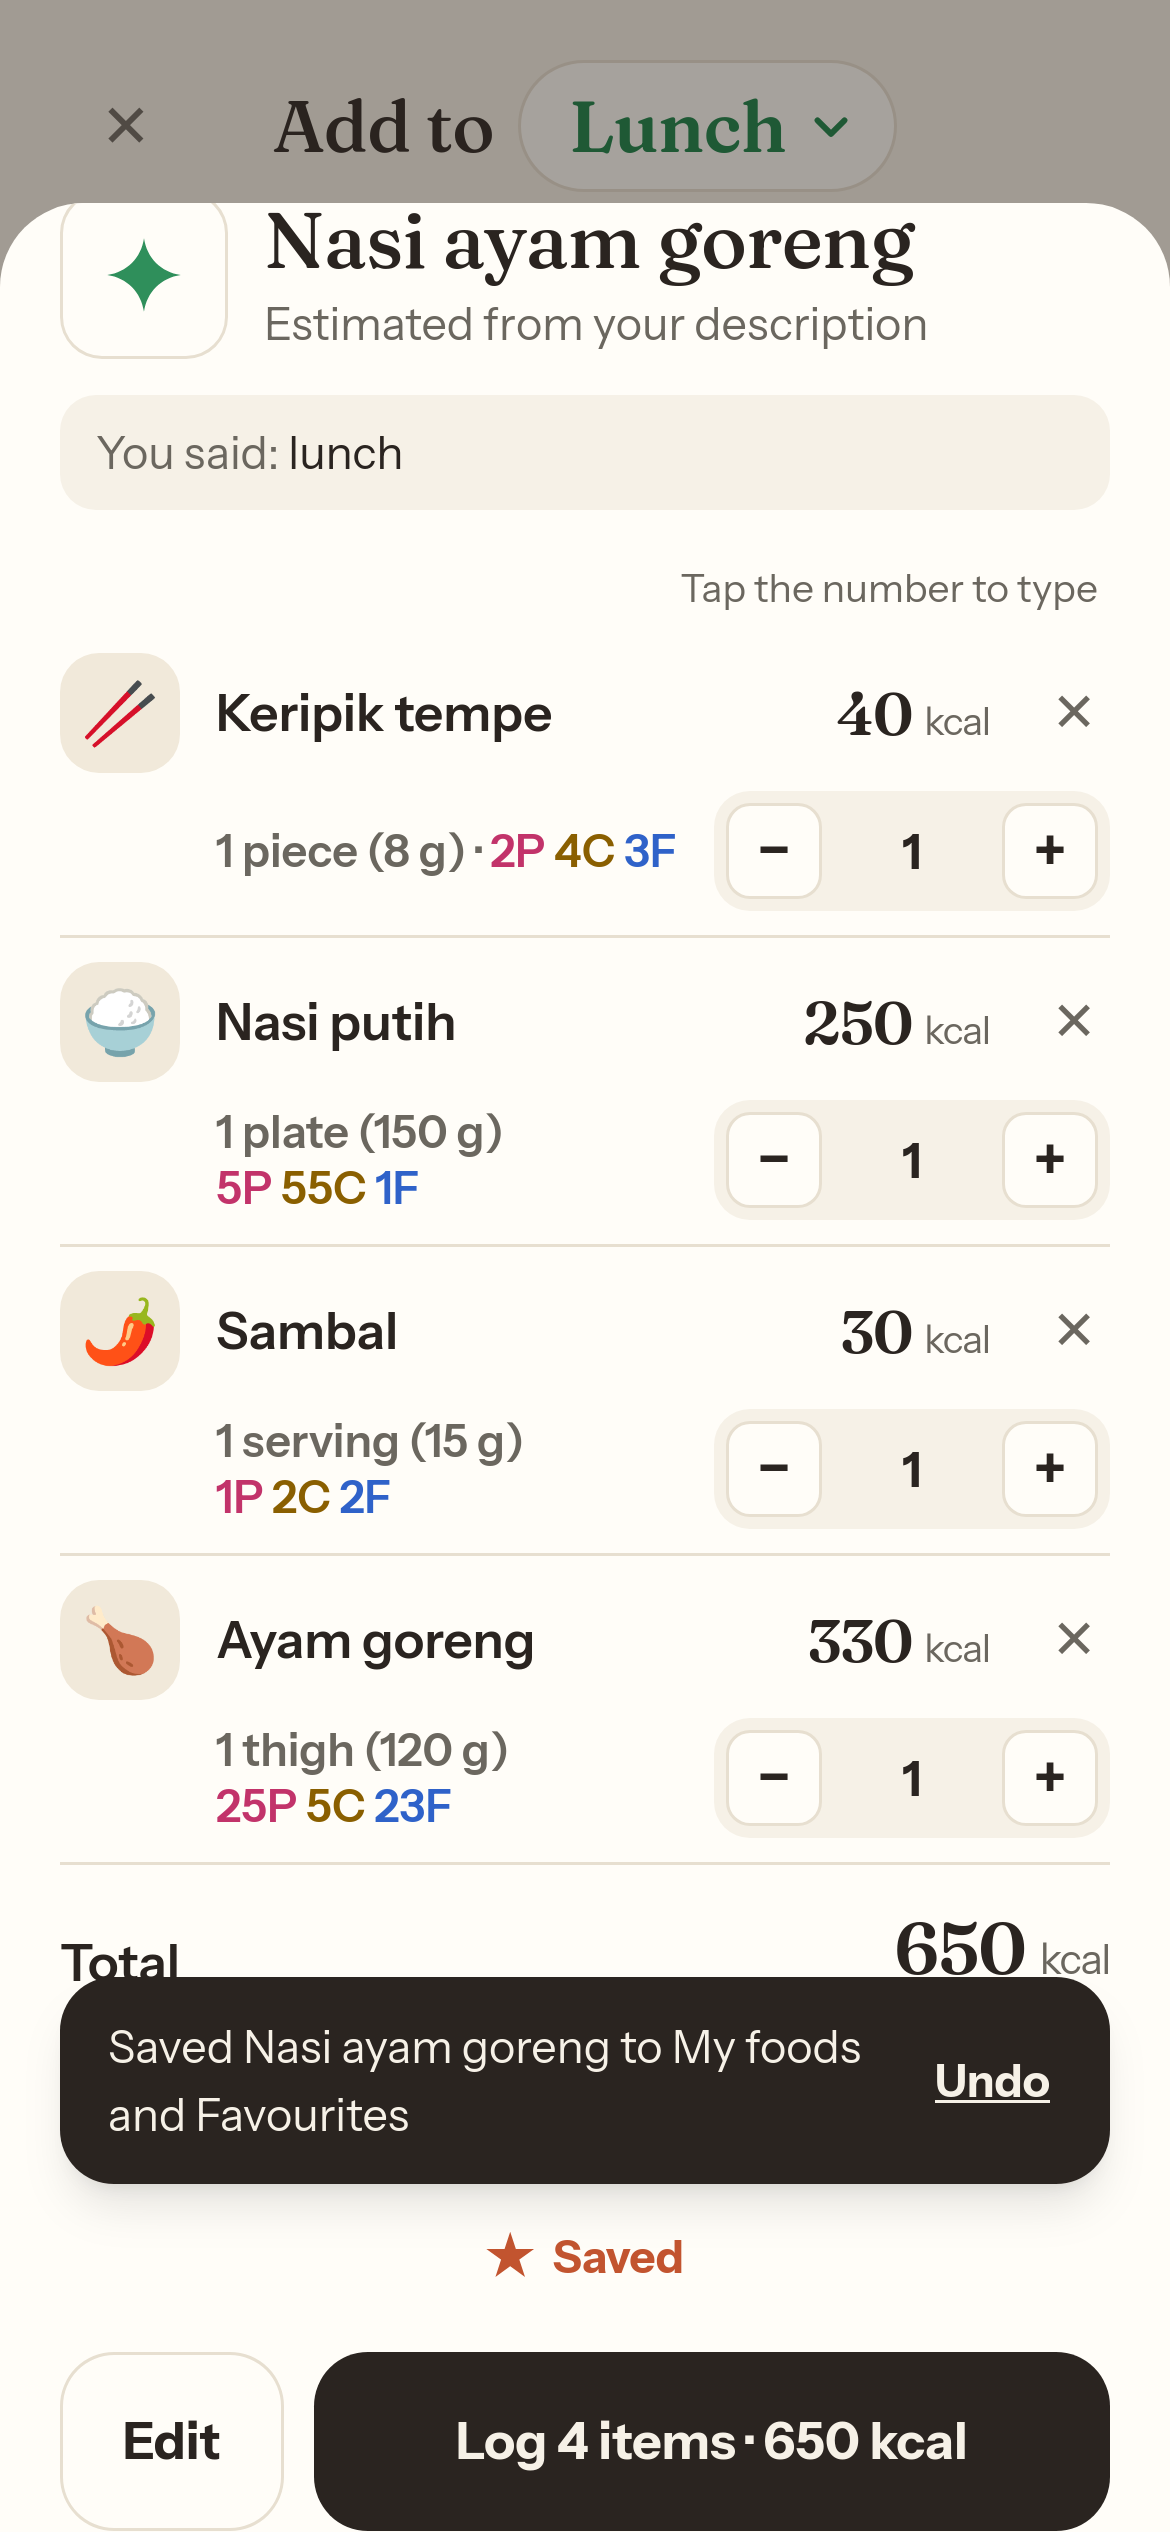
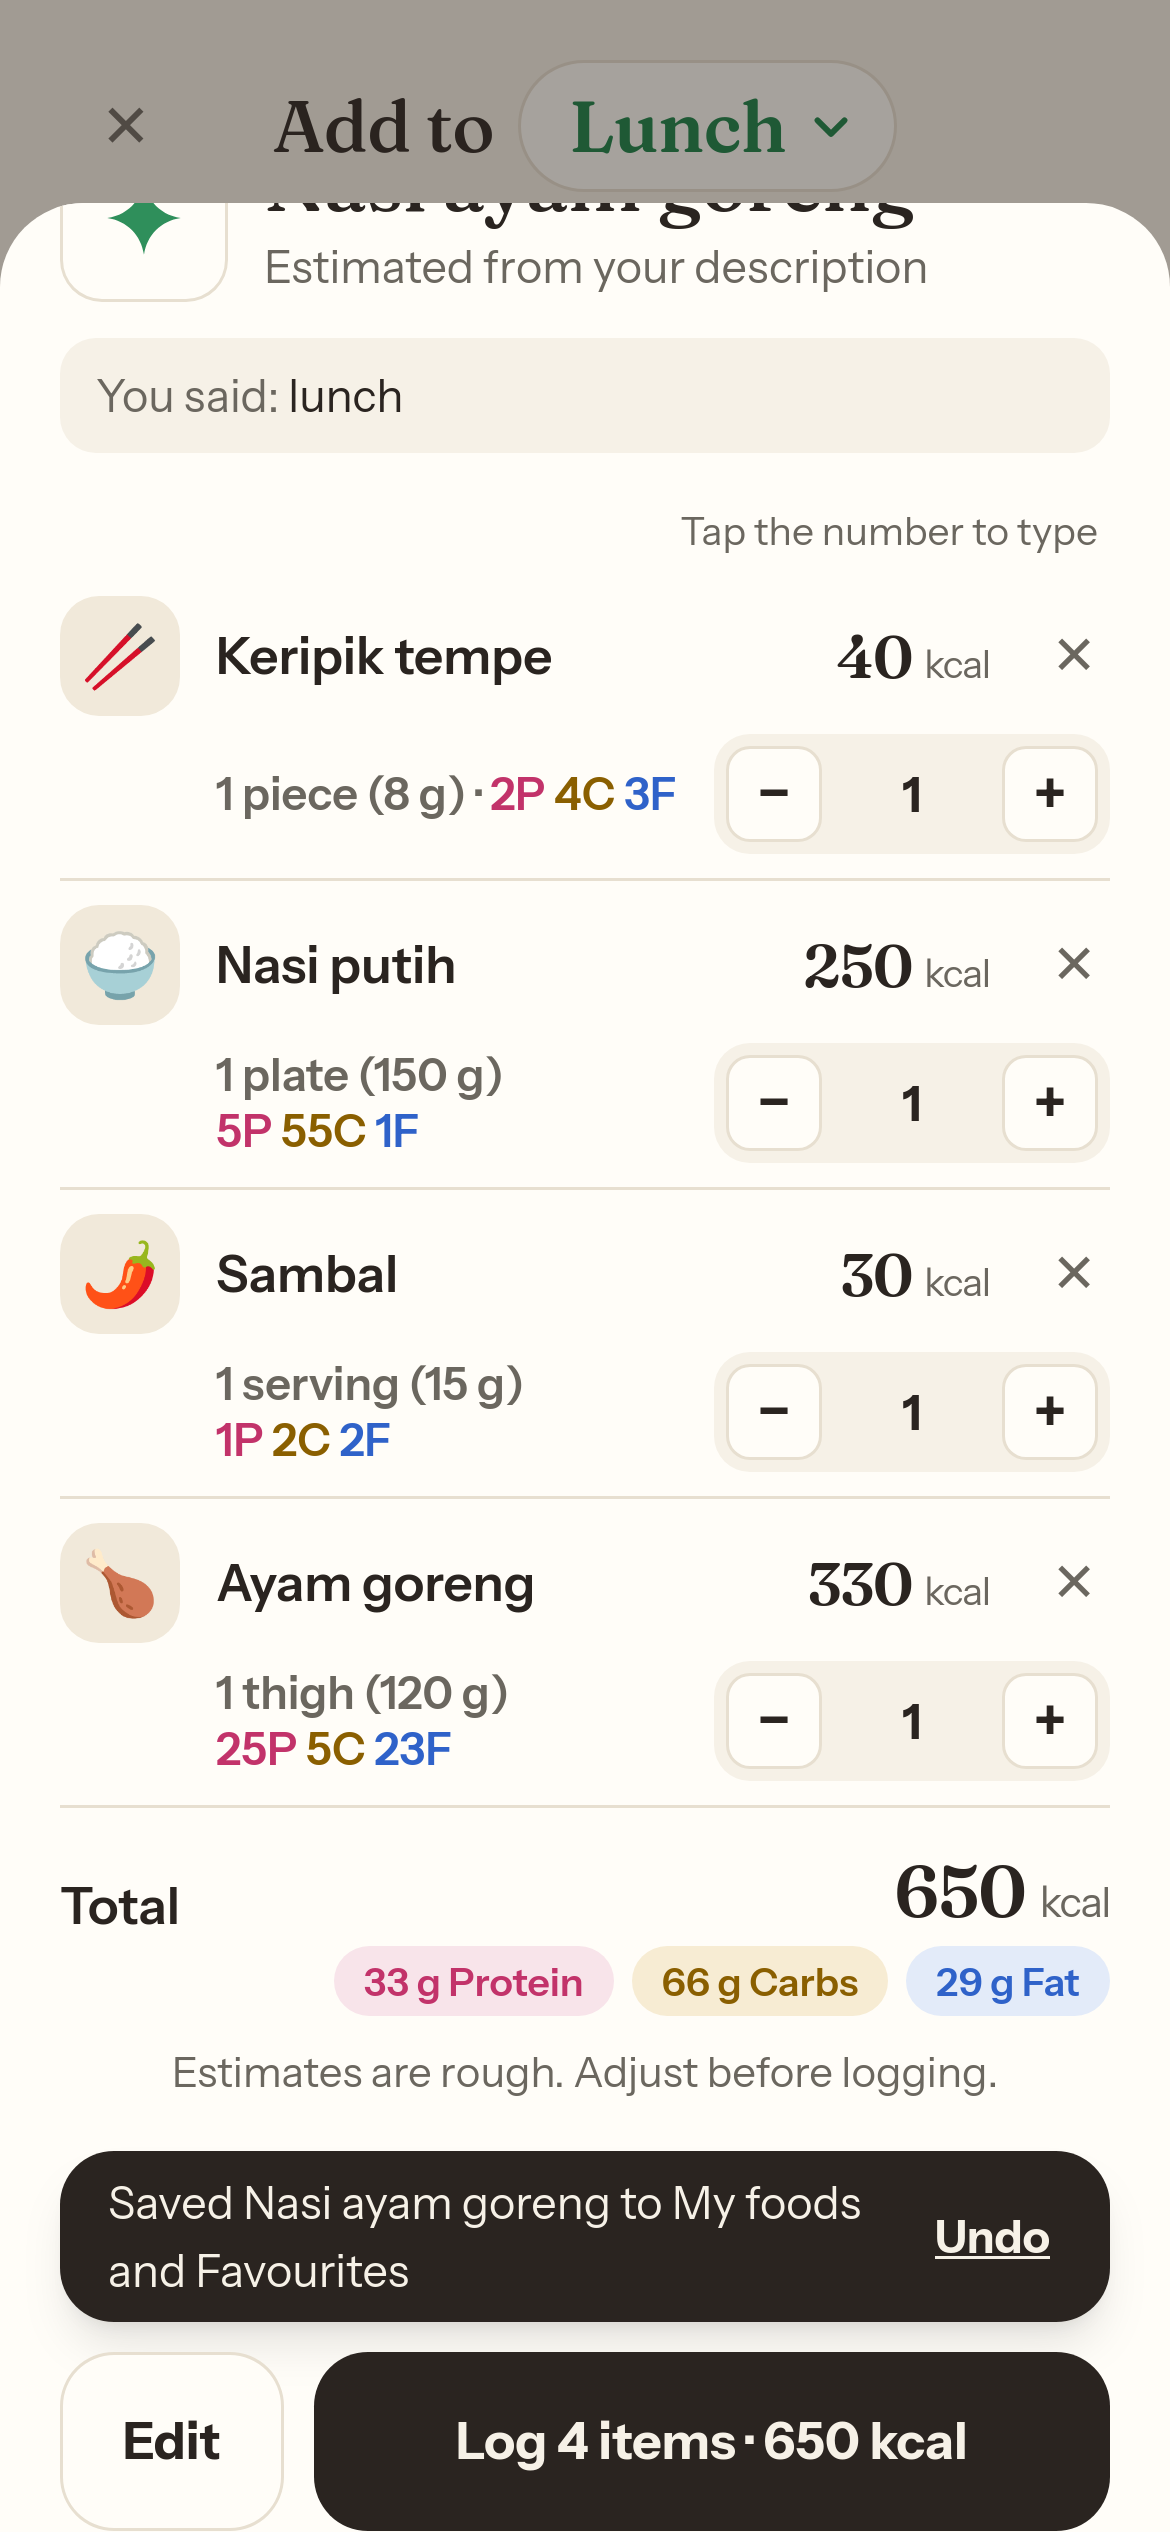
v1.22.1: key links open in the browser; save snackbar takes the row's slot
- Settings "get a key" links (Gemini "here", OpenAI "Get a key") leave the installed app:
  iOS 17+ home-screen app -> x-safari-https:// (Safari); Android installed app -> intent:// VIEW
  to the browser it runs in (Chrome / Samsung Internet / Edge / Firefox) with a browser_fallback_url;
  browser tabs, desktop and iOS 16 keep the plain https link, target=_blank.
- AI result / Meal Ideas sheet (Reed): the 4 s Undo snackbar replaces the save row in place instead of
  floating above it, so Total is never covered; the row returns as "★ Saved" (or "☆ Save to favourites"
  after Undo). Focus moves row -> Undo -> row. Copy, 44px targets and reduced motion unchanged.
- tests/v1221.mjs (link per platform, Settings otherwise unchanged); v122.mjs checks the slot and Total.

diff --git a/src/components/PhotoSheets.tsx b/src/components/PhotoSheets.tsx
@@ -315,7 +315,9 @@ export function Results({ dish, scaleRef, items, photo, note, source, onEdit, on
   // v1.22 (Reed's spec): "☆ Save to favourites" saves the whole result as ONE food in My foods and Favourites: the dish
   // name (a single item saves under its own name), the total at the servings set now. It is a snapshot: changing
   // servings brings the row back, and saving again updates the food this sheet saved (same name, no duplicate). A food
-  // of the same name that was already in My foods is only starred. Snackbar above the footer for 4 s with Undo.
+  // of the same name that was already in My foods is only starred. v1.22.1 (Reed): the 4 s snackbar with Undo takes the
+  // save row's slot (it no longer floats above it, so it can never cover Total); when it goes the row is back as
+  // "★ Saved", or "☆ Save to favourites" after Undo. Focus follows: row → Undo → row.
   const { saveFavourite } = useStore()
   const sig = JSON.stringify(rows.map((r) => [r.it.key, r.s]))
   const [saved, setSaved] = useState<string | null>(null)
@@ -323,21 +325,35 @@ export function Results({ dish, scaleRef, items, photo, note, source, onEdit, on
   const [snack, setSnack] = useState<{ key: number; text: string; undo: () => void } | null>(null)
   const snackTimer = useRef(0)
   const saveBtn = useRef<HTMLButtonElement>(null)
+  const undoBtn = useRef<HTMLButtonElement>(null)
+  // Focus moves with the slot: the save row → Undo when the snackbar replaces it, Undo → the row when it goes.
+  const focusNext = useRef<'undo' | 'row' | null>(null)
   useEffect(() => () => window.clearTimeout(snackTimer.current), [])
+  useEffect(() => {
+    if (focusNext.current === 'undo' && snack) undoBtn.current?.focus({ preventScroll: true })
+    if (focusNext.current === 'row' && !snack) saveBtn.current?.focus({ preventScroll: true })
+    focusNext.current = null
+  }, [snack])
+  const dismiss = () => {
+    window.clearTimeout(snackTimer.current)
+    if (undoBtn.current && document.activeElement === undoBtn.current) focusNext.current = 'row'
+    setSnack(null)
+  }
   const saveName = n === 1 ? rows[0].it.name : dish
   const r1 = (x: number) => Math.round(x * 10) / 10
   const save = () => {
     const r = saveFavourite({ name: saveName, kcal: total.kcal, protein: r1(total.protein), carbs: r1(total.carbs), fat: r1(total.fat) }, mine)
     const prevMine = mine
+    if (saveBtn.current && document.activeElement === saveBtn.current) focusNext.current = 'undo'
     if (r.kind !== 'starred') setMine(r.food.id)
     setSaved(sig)
     window.clearTimeout(snackTimer.current)
     setSnack({
       key: Date.now(),
       text: r.kind === 'starred' ? `Added ${r.food.name} to Favourites` : `Saved ${r.food.name} to My foods and Favourites`,
-      undo: () => { r.undo(); setMine(r.kind === 'updated' ? r.food.id : prevMine); setSaved(null); setSnack(null); window.clearTimeout(snackTimer.current); saveBtn.current?.focus({ preventScroll: true }) },
+      undo: () => { r.undo(); setMine(r.kind === 'updated' ? r.food.id : prevMine); setSaved(null); dismiss(); focusNext.current = 'row' },
     })
-    snackTimer.current = window.setTimeout(() => setSnack(null), 4000)
+    snackTimer.current = window.setTimeout(dismiss, 4000)
   }
   const isSaved = saved === sig
   return (
@@ -396,15 +412,14 @@ export function Results({ dish, scaleRef, items, photo, note, source, onEdit, on
         </div>
       </div>
       <p className="-mt-2 text-center text-[14px] text-mute">Estimates are rough. Adjust before logging.</p>
-      {/* The snackbar sits over the content just above the save row and the footer, so both stay in view. */}
-      <div className="relative flex flex-col gap-2.5">
-        {snack && (
-          <div role="status" key={snack.key} className="anim-fade absolute inset-x-0 bottom-full z-20 mb-2 flex items-center justify-between gap-3 rounded-[18px] bg-ink px-4 py-3 text-[15px] text-bg shadow-lg" data-testid="fav-toast">
+      {/* v1.22.1: the snackbar takes the save row's slot, in the flow, so nothing above it (Total) is ever covered. */}
+      <div className="flex flex-col gap-2.5">
+        {snack ? (
+          <div role="status" key={snack.key} className="anim-fade flex min-h-11 items-center justify-between gap-3 rounded-[18px] bg-ink px-4 py-1.5 text-[15px] text-bg shadow-lg" data-testid="fav-toast">
             <span className="min-w-0">{snack.text}</span>
-            <button type="button" className="tap -my-2 min-h-11 shrink-0 px-1 font-bold underline" onClick={snack.undo} data-testid="fav-undo">Undo</button>
+            <button type="button" ref={undoBtn} className="tap min-h-11 shrink-0 px-1 font-bold underline" onClick={snack.undo} data-testid="fav-undo">Undo</button>
           </div>
-        )}
-        {n > 0 && (
+        ) : n > 0 && (
           <button type="button" ref={saveBtn} onClick={isSaved ? undefined : save} aria-disabled={isSaved || undefined}
             aria-label={isSaved ? 'Saved to favourites' : 'Save to favourites'}
             className={`tap -mt-1.5 flex min-h-11 items-center justify-center gap-1.5 self-center rounded-full px-4 text-[15px] font-bold ${isSaved ? 'text-over-ink' : 'text-g-ink'}`}

diff --git a/src/lib/external.ts b/src/lib/external.ts
@@ -1,0 +1,44 @@
+// v1.22.1: links that leave the app (the "get a key" links in Settings). In an installed PWA a plain
+// target=_blank link opens inside the app: an in-app Safari view on iOS, a Custom Tab on Android. These hand the
+// link to the real browser instead:
+// - iOS 17+ standalone: x-safari-https://… opens the page in Safari (Safari's own registered scheme; iOS 16 and
+//   earlier do not know it, so they keep the plain link). iOS only lets a web app open Safari this way, not another
+//   default browser.
+// - Android standalone: an intent:// VIEW link aimed at the browser the app was installed from (Chrome unless the UA
+//   says Samsung Internet, Edge or Firefox), with S.browser_fallback_url so it still opens if that browser is missing.
+// - Everywhere else (a browser tab, desktop, unknown): the plain https link, target=_blank rel=noopener.
+// Only fixed https URLs from our own code go through here.
+import { isIos, isStandalone } from './install'
+
+export type LinkProps = { href: string; target?: '_blank'; rel: string }
+
+/** iOS major version from the UA (iPhone OS 17_4, or Version/17.4 for iPad as a Mac); 0 when unknown. */
+export function iosMajor(ua: string): number {
+  const os = /OS (\d+)[_.]\d/.exec(ua)
+  const ver = /Version\/(\d+)\./.exec(ua)
+  return Math.max(os ? Number(os[1]) : 0, ver ? Number(ver[1]) : 0)
+}
+
+/** The Android browser running this app, by its package name. */
+export function androidPackage(ua: string): string {
+  if (/SamsungBrowser\//.test(ua)) return 'com.sec.android.app.sbrowser'
+  if (/EdgA\//.test(ua)) return 'com.microsoft.emmx'
+  if (/Firefox\//.test(ua)) return 'org.mozilla.firefox'
+  return 'com.android.chrome'
+}
+
+export type LinkEnv = { ua: string; standalone: boolean; ios: boolean }
+
+/** `rel` is kept as each link had it before (the OpenAI link also says noreferrer). */
+export function externalLink(url: string, rel = 'noopener', env?: LinkEnv): LinkProps {
+  const plain: LinkProps = { href: url, target: '_blank', rel }
+  if (!/^https:\/\//.test(url)) return plain
+  const e = env ?? (typeof navigator === 'undefined' ? null : { ua: navigator.userAgent, standalone: isStandalone(), ios: isIos() })
+  if (!e || !e.standalone) return plain
+  if (e.ios) return iosMajor(e.ua) >= 17 ? { href: 'x-safari-' + url, rel } : plain
+  if (/Android/.test(e.ua)) {
+    const rest = url.slice('https://'.length)
+    return { href: `intent://${rest}#Intent;scheme=https;action=android.intent.action.VIEW;category=android.intent.category.BROWSABLE;package=${androidPackage(e.ua)};S.browser_fallback_url=${encodeURIComponent(url)};end`, rel }
+  }
+  return plain
+}

diff --git a/src/components/AiCard.tsx b/src/components/AiCard.tsx
@@ -1,6 +1,7 @@
 // v1.5: Me > AI photo estimate. The user's own Gemini or OpenAI key, kept only in localStorage on this device.
 // The key is never logged, never exported in backups, and only ever sent to the chosen provider.
 import { useEffect, useRef, useState } from 'react'
+import { externalLink } from '../lib/external'
 import { AiError, DEFAULT_PROVIDER, KEY_URL, MODELS, PROVIDERS, PROVIDER_LABEL, clearAi, errorText, readAi, saveAi, testKey, type Provider } from '../lib/ai'
 import { Button, Card, Chip } from './ui'
 
@@ -63,7 +64,7 @@ export function AiCard({ focus = false, focusInput = true }: { focus?: boolean; 
           {PROVIDERS.map((p) => <Chip key={p} on={provider === p} onClick={() => pick(p)}>{PROVIDER_LABEL[p]}</Chip>)}
         </div>
         <p className="-mt-1 text-[13px] text-mute">
-          Model: {MODELS[provider]}.{provider === 'gemini' ? ' Works with a free key.' : <>{' '}<a href={KEY_URL[provider]} target="_blank" rel="noreferrer noopener" className="font-semibold text-g-ink underline">Get a key</a></>}
+          Model: {MODELS[provider]}.{provider === 'gemini' ? ' Works with a free key.' : <>{' '}<a {...externalLink(KEY_URL[provider], 'noreferrer noopener')} className="font-semibold text-g-ink underline">Get a key</a></>}
         </p>
         <label className="flex flex-col gap-1.5 text-base font-semibold">
           <span>{PROVIDER_LABEL[provider]} API key</span>
@@ -91,7 +92,7 @@ export function AiCard({ focus = false, focusInput = true }: { focus?: boolean; 
         {provider === 'gemini' && (
           <p className="-mt-1 text-[15px] leading-snug text-mute" data-testid="ai-key-help">
             Don't have a key? Get one free{' '}
-            <a href="https://aistudio.google.com/apikey" target="_blank" rel="noopener" className="-mx-1.5 -my-3 inline-block px-1.5 py-3 font-semibold text-g-ink underline" data-testid="ai-key-link">here</a>
+            <a {...externalLink(KEY_URL.gemini)} className="-mx-1.5 -my-3 inline-block px-1.5 py-3 font-semibold text-g-ink underline" data-testid="ai-key-link">here</a>
           </p>
         )}
         <div className="flex gap-2">

diff --git a/scripts/sw-plugin.ts b/scripts/sw-plugin.ts
@@ -6,7 +6,7 @@ import { join, relative } from 'node:path'
 import type { Plugin } from 'vite'
 
 // Bumped per release (v1.1: new storage key and formulas). The content hash below changes on every build anyway.
-export const APP_VERSION = 'v1.22'
+export const APP_VERSION = 'v1.22.1'
 
 const walk = (dir: string): string[] =>
   readdirSync(dir).flatMap((f) => (statSync(join(dir, f)).isDirectory() ? walk(join(dir, f)) : [join(dir, f)]))
